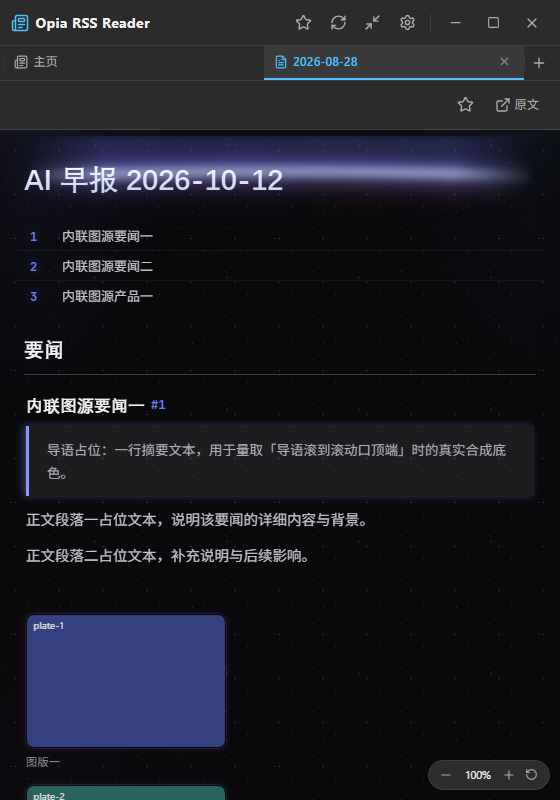
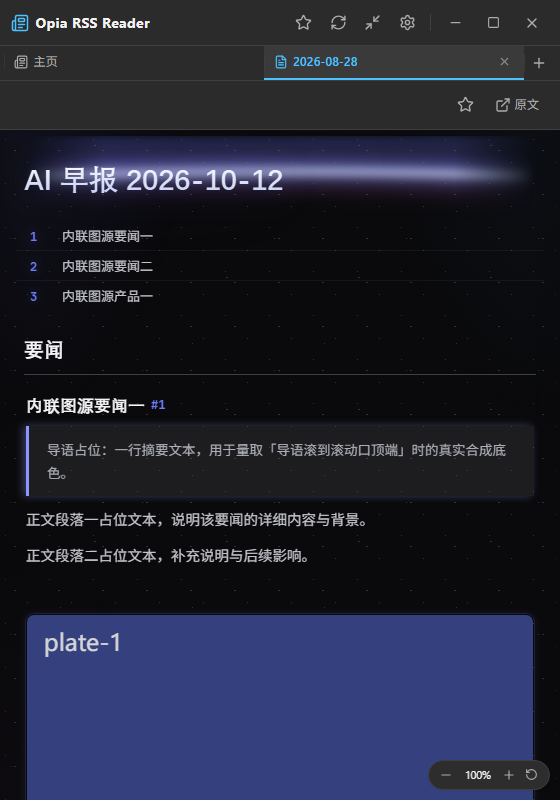
fix(nocturne): T4 窄窗单列回落图宽跟随内容列（#15）
- juya.css：≤640px 断点内补暗侧复合形态复位
  `[data-juya-variant='nocturne-dark'].jynoct .juya-entry-row .juya-entry-figure { width: 100% }`
  （(0,4,0) 压过宽屏 200px 那条的 (0,3,0)；200px 来自 3e8b9e9，属布局模式切换后的残留）；
  同块补图本体 `width: 100%`（固有 480px < 内容列，仅复位图列时右侧仍留 26px 空白）。
  宽屏 >640px 的 200px 一字节不动，nocturne-light 与共享层未碰。
- tests/unit/juyaCssGuard.test.ts：新增「窄窗单列回落图宽守卫」5 项 / 18 条 expect
  （宽屏 200px 原样、断点内复合形态、复位值严格 100%、图本体铺满、媒体块隔离）。
- tests/e2e/reader.spec.ts：新增 560 视口几何断言 1 项 / 12 条 expect（相对关系，不锁绝对坐标）。

560 视口实测（getBoundingClientRect）：图列 508.00 == 内容列 508.00；图宽 508.00 / 508.00；
h2 栏目标题线 512.00（差 2px 来自既有 `.jynoct .juya-entry` 内衬，本票不动）。
反向验证：还原 width: 200px → 守卫 ③ 转红（1/5），E2E 用例转红（实测图列 200 vs 内容列 508）。

验证：tsc 0 错误 / vitest 416 全过 / Playwright 93 全过 / 对比度审计 exit 0（text 70 + ui 7
全 PASS）/ 视觉走查重生归档 exit 0 → --verify exit 0。归档变更 1 张：
nocturne-dark-窄窗-560-阅读页.png（其余 4 张逐字节一致）。

Changed region(s): [[0.0304, 0.75, 0.9714, 1.0], [0.0607, 0.7812, 0.2125, 0.8125]]

diff --git a/src/renderer/juya/juya.css b/src/renderer/juya/juya.css
@@ -2310,6 +2310,32 @@
   width: 200px;
 }
 
+/* ---- 窄窗单列回落：图宽跟随内容列（2026-10-20，#15 / SPEC 批次 B2 附）----
+   **病根**：上面那条 200px 与「图恒在右的两列并排」同批写下（`3e8b9e9`，提交信息只提图文并排、
+   从未涉及窄窗）。基层在 ≤640px 把 `.juya-entry-row` 改纵排时写的是
+   `.juya-entry-row .juya-entry-figure { width: 100% }`（特异性 0,2,0），**输给** 200px 那条
+   （0,3,0）⇒ 断点处只换了排布方向、没重置宽度：单列里图仍占 200px，右侧留大片空白，
+   同屏与满宽回流带并置出两种图宽。判定为布局模式切换后的残留，无设计意图。
+   **修法**：同一断点内补一条**更高特异性**（0,4,0）的复位，宽度严格等于列宽，两张竖向堆叠铺满
+   内容列；宽屏（>640px）那条 200px **一字节不动** ⇒ 并排行为零变化。
+   **只暗侧**：需求 §9 明确 nocturne-light 不做任何改动；复合形式是本仓库「变体覆盖选择器约定」
+   的硬形态（变体属性与风格类恒挂同一根元素，空格后代形式永不匹配）。
+   复位同时是**特异性修正**而非新设计：若只把 200px 降级为 0,2,0，宽屏并排会一起塌成 100%，
+   故必须留在变体作用域内、只在该断点生效。 */
+@media (max-width: 640px) {
+  [data-juya-variant='nocturne-dark'].jynoct .juya-entry-row .juya-entry-figure {
+    width: 100%;
+  }
+  /* 图本体也要显式铺满：内联/真实图源固有宽（首条 4 张为 480px）在 560 视口下**小于**内容列
+     （实测内容列 508px、固有 482px 边框盒），而基层只给 `.juya-root img { max-width: 100% }`
+     ——那是**上限**不是填充，图会停在固有宽度、右侧留下 26px 空白，仍然「没有跟随内容列」。
+     width: 100% 走 border-box ⇒ 图边框盒 == 内容列宽（左右缘与图列、正文列一致），高度按固有纵横
+     比自动缩放，不发虚。只限图列内的图：回流带的网格图本来就铺满网格单元，不在本条作用域内。 */
+  [data-juya-variant='nocturne-dark'].jynoct .juya-entry-figure img {
+    width: 100%;
+  }
+}
+
 /* 阅读页图片统一圆角记号（2026-10-20，#14）：只服务阅读页图片（图文并排右列 + 回流带），
    **不动共享 --jy-radius** —— 该 token 被全部 16 个变体消费，改它会波及所有风格。
    写成共享 `.jynoct` 作用域而非变体 token：亮暗两侧沿用同一 8px（既有图版圆角就是 8px，
